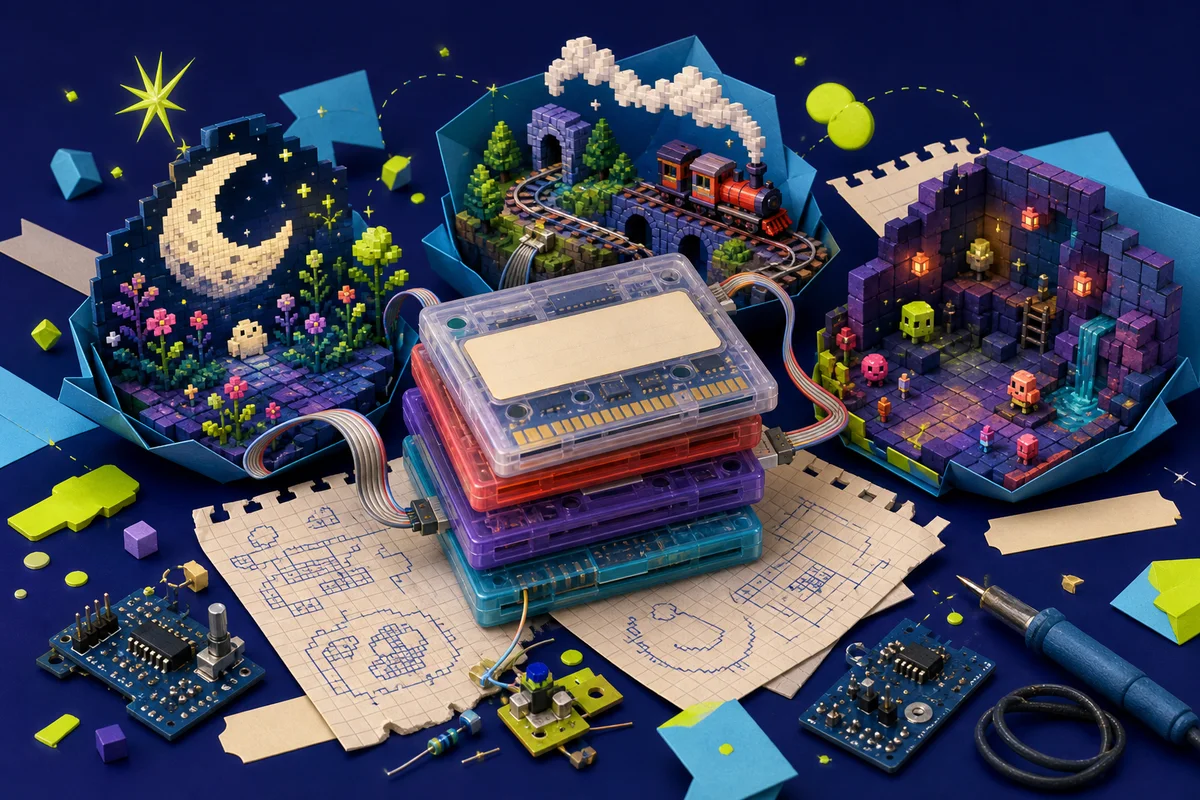
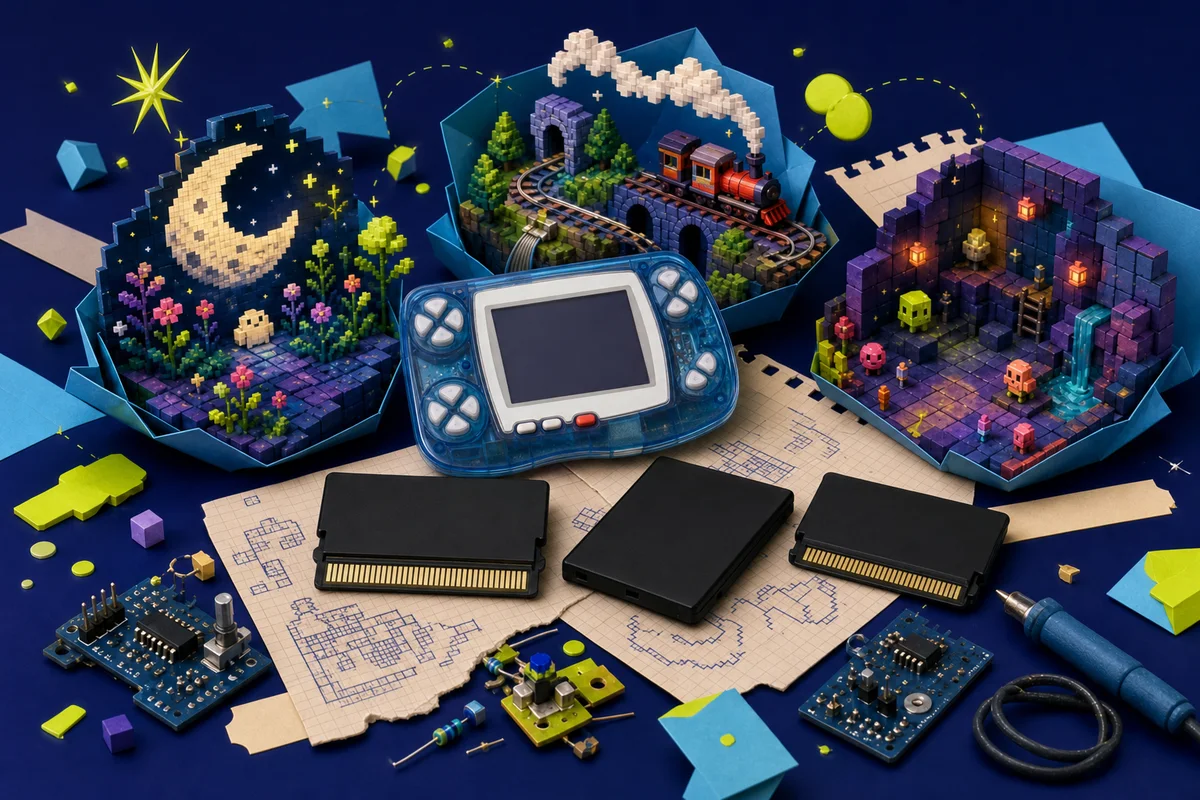
Make project artwork hardware faithful

diff --git a/app/page.tsx b/app/page.tsx
@@ -110,7 +110,7 @@ export default function Home() {
             >
               <img
                 src="/art/swansong-desktop.webp"
-                alt="A translucent vertical handheld floating above a compact silver desktop computer in a surreal indigo game laboratory"
+                alt="A hardware-faithful translucent blue WonderSwan Color displayed above a compact silver desktop computer in an indigo laboratory"
               />
             </a>
             <div className="card-copy">
@@ -147,7 +147,7 @@ export default function Home() {
             >
               <img
                 src="/art/swansong-core.webp"
-                alt="A translucent horizontal WonderSwan opened like a scientific specimen to reveal a glowing FPGA and circuit board"
+                alt="A translucent blue WonderSwan Color hovering above a separate exposed FPGA development board on an acrylic platform"
               />
             </a>
             <div className="card-copy">
@@ -184,7 +184,7 @@ export default function Home() {
             >
               <img
                 src="/art/wonderswan-homebrew.webp"
-                alt="Translucent cartridges connected to miniature original pixel-art worlds on an indigo homebrew workbench"
+                alt="A WonderSwan Color and thin black cartridges with exposed gold edge connectors surrounded by miniature original pixel-art worlds"
               />
             </a>
             <div className="card-copy">